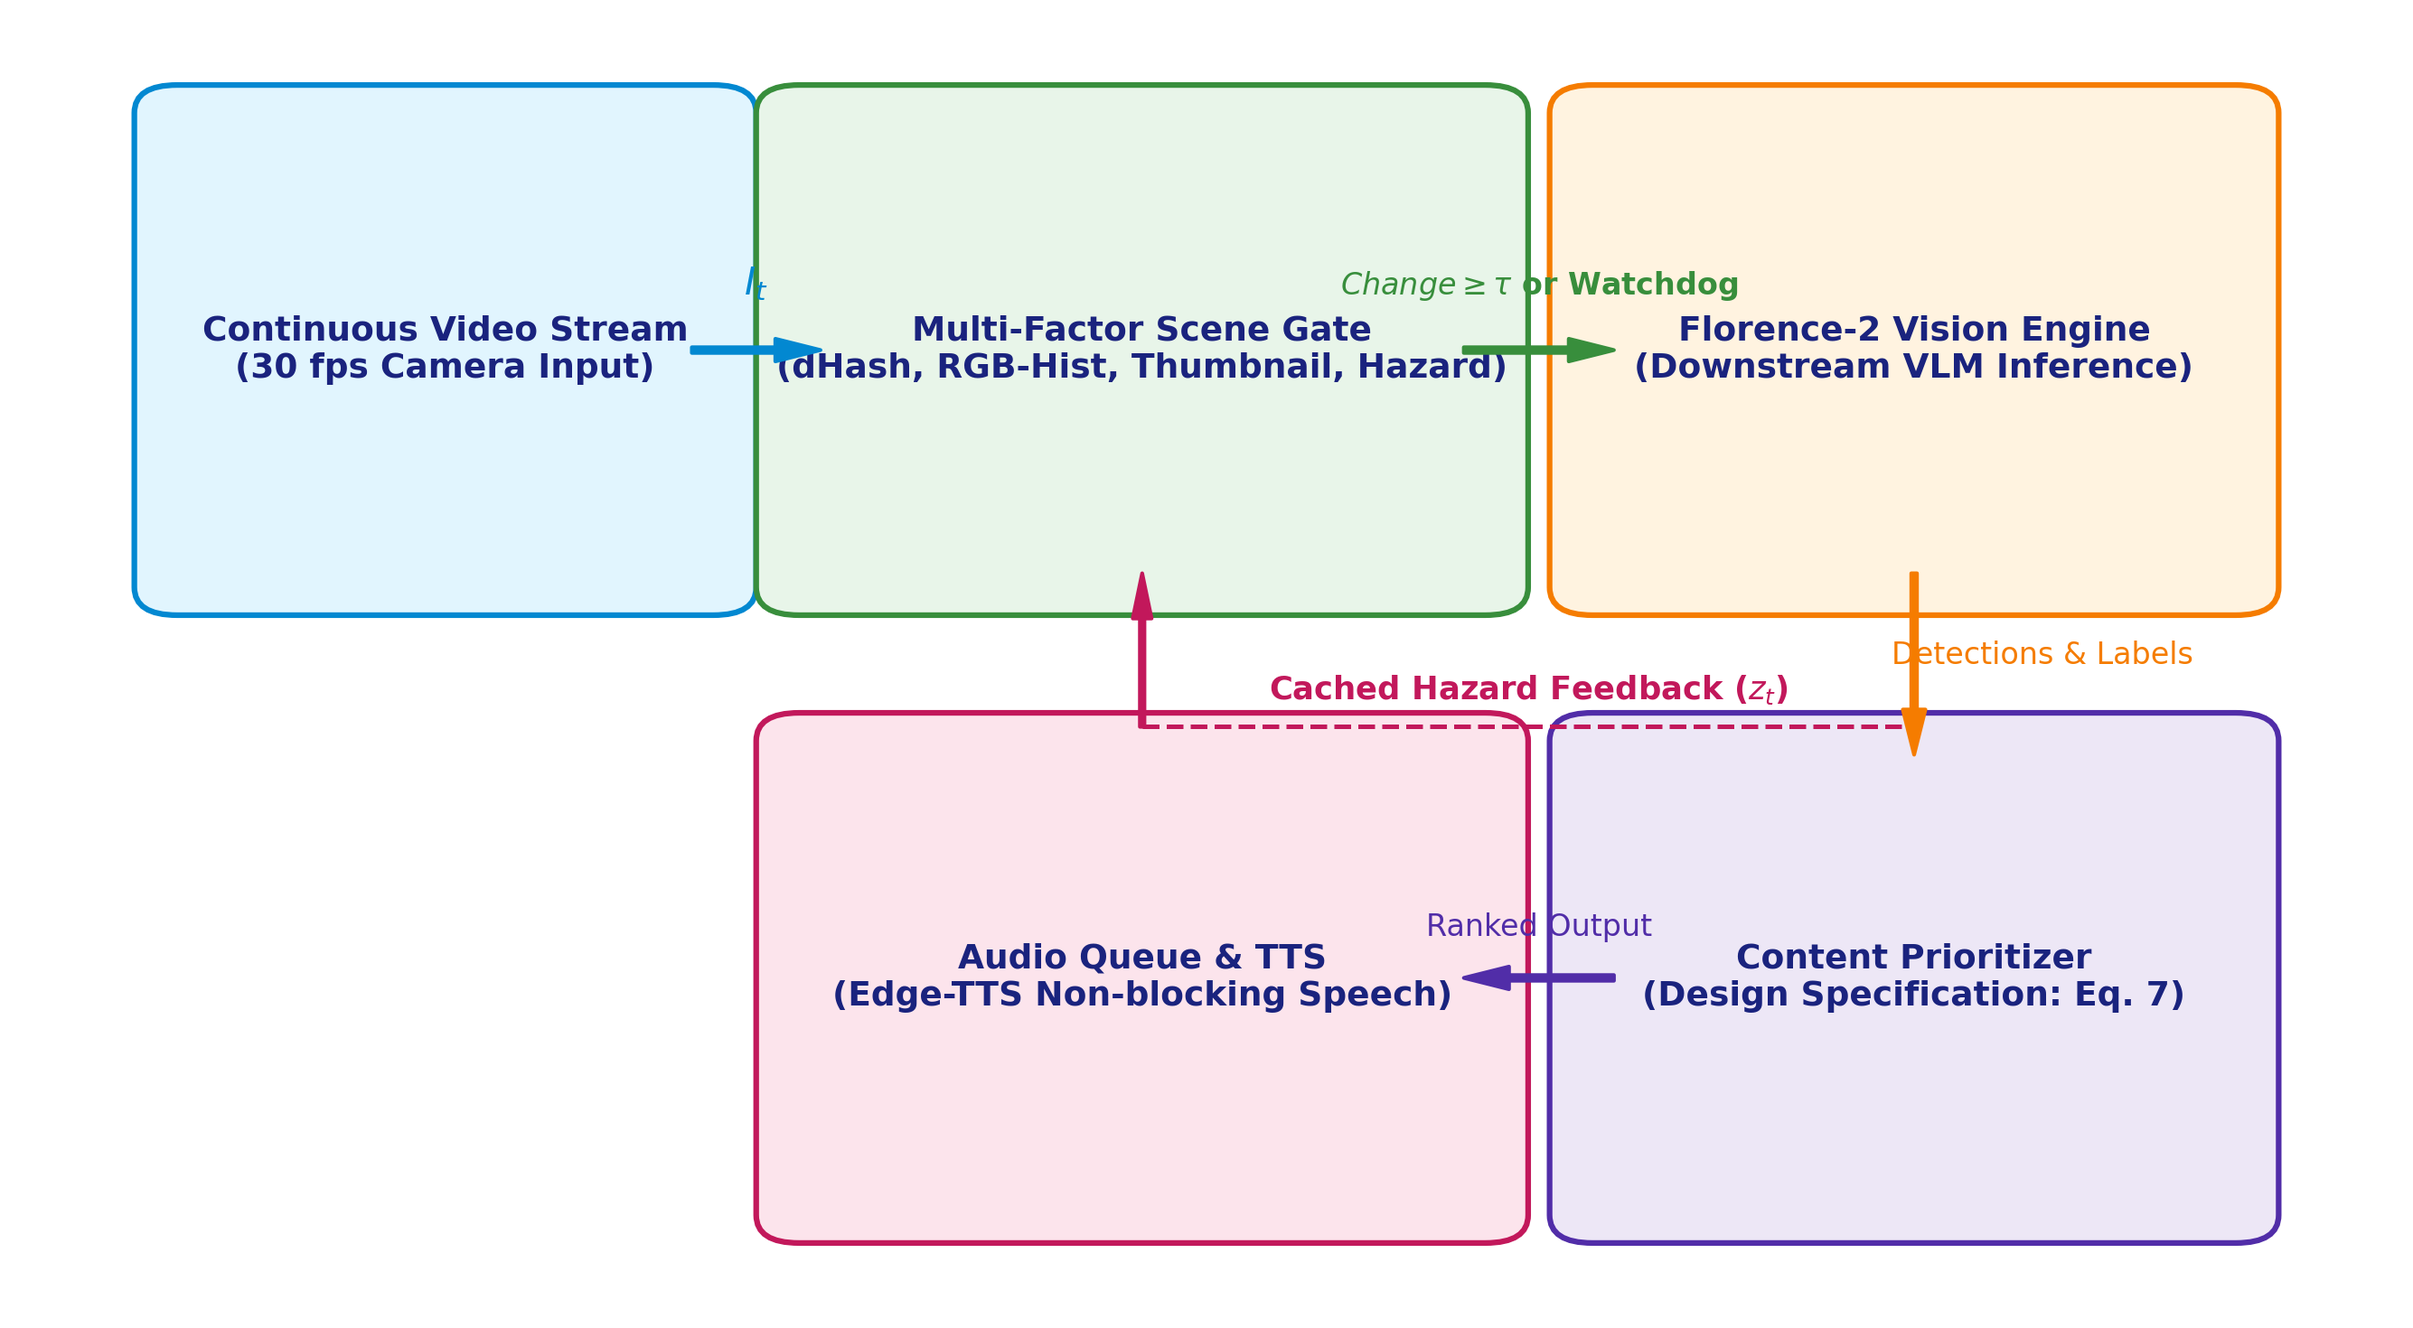
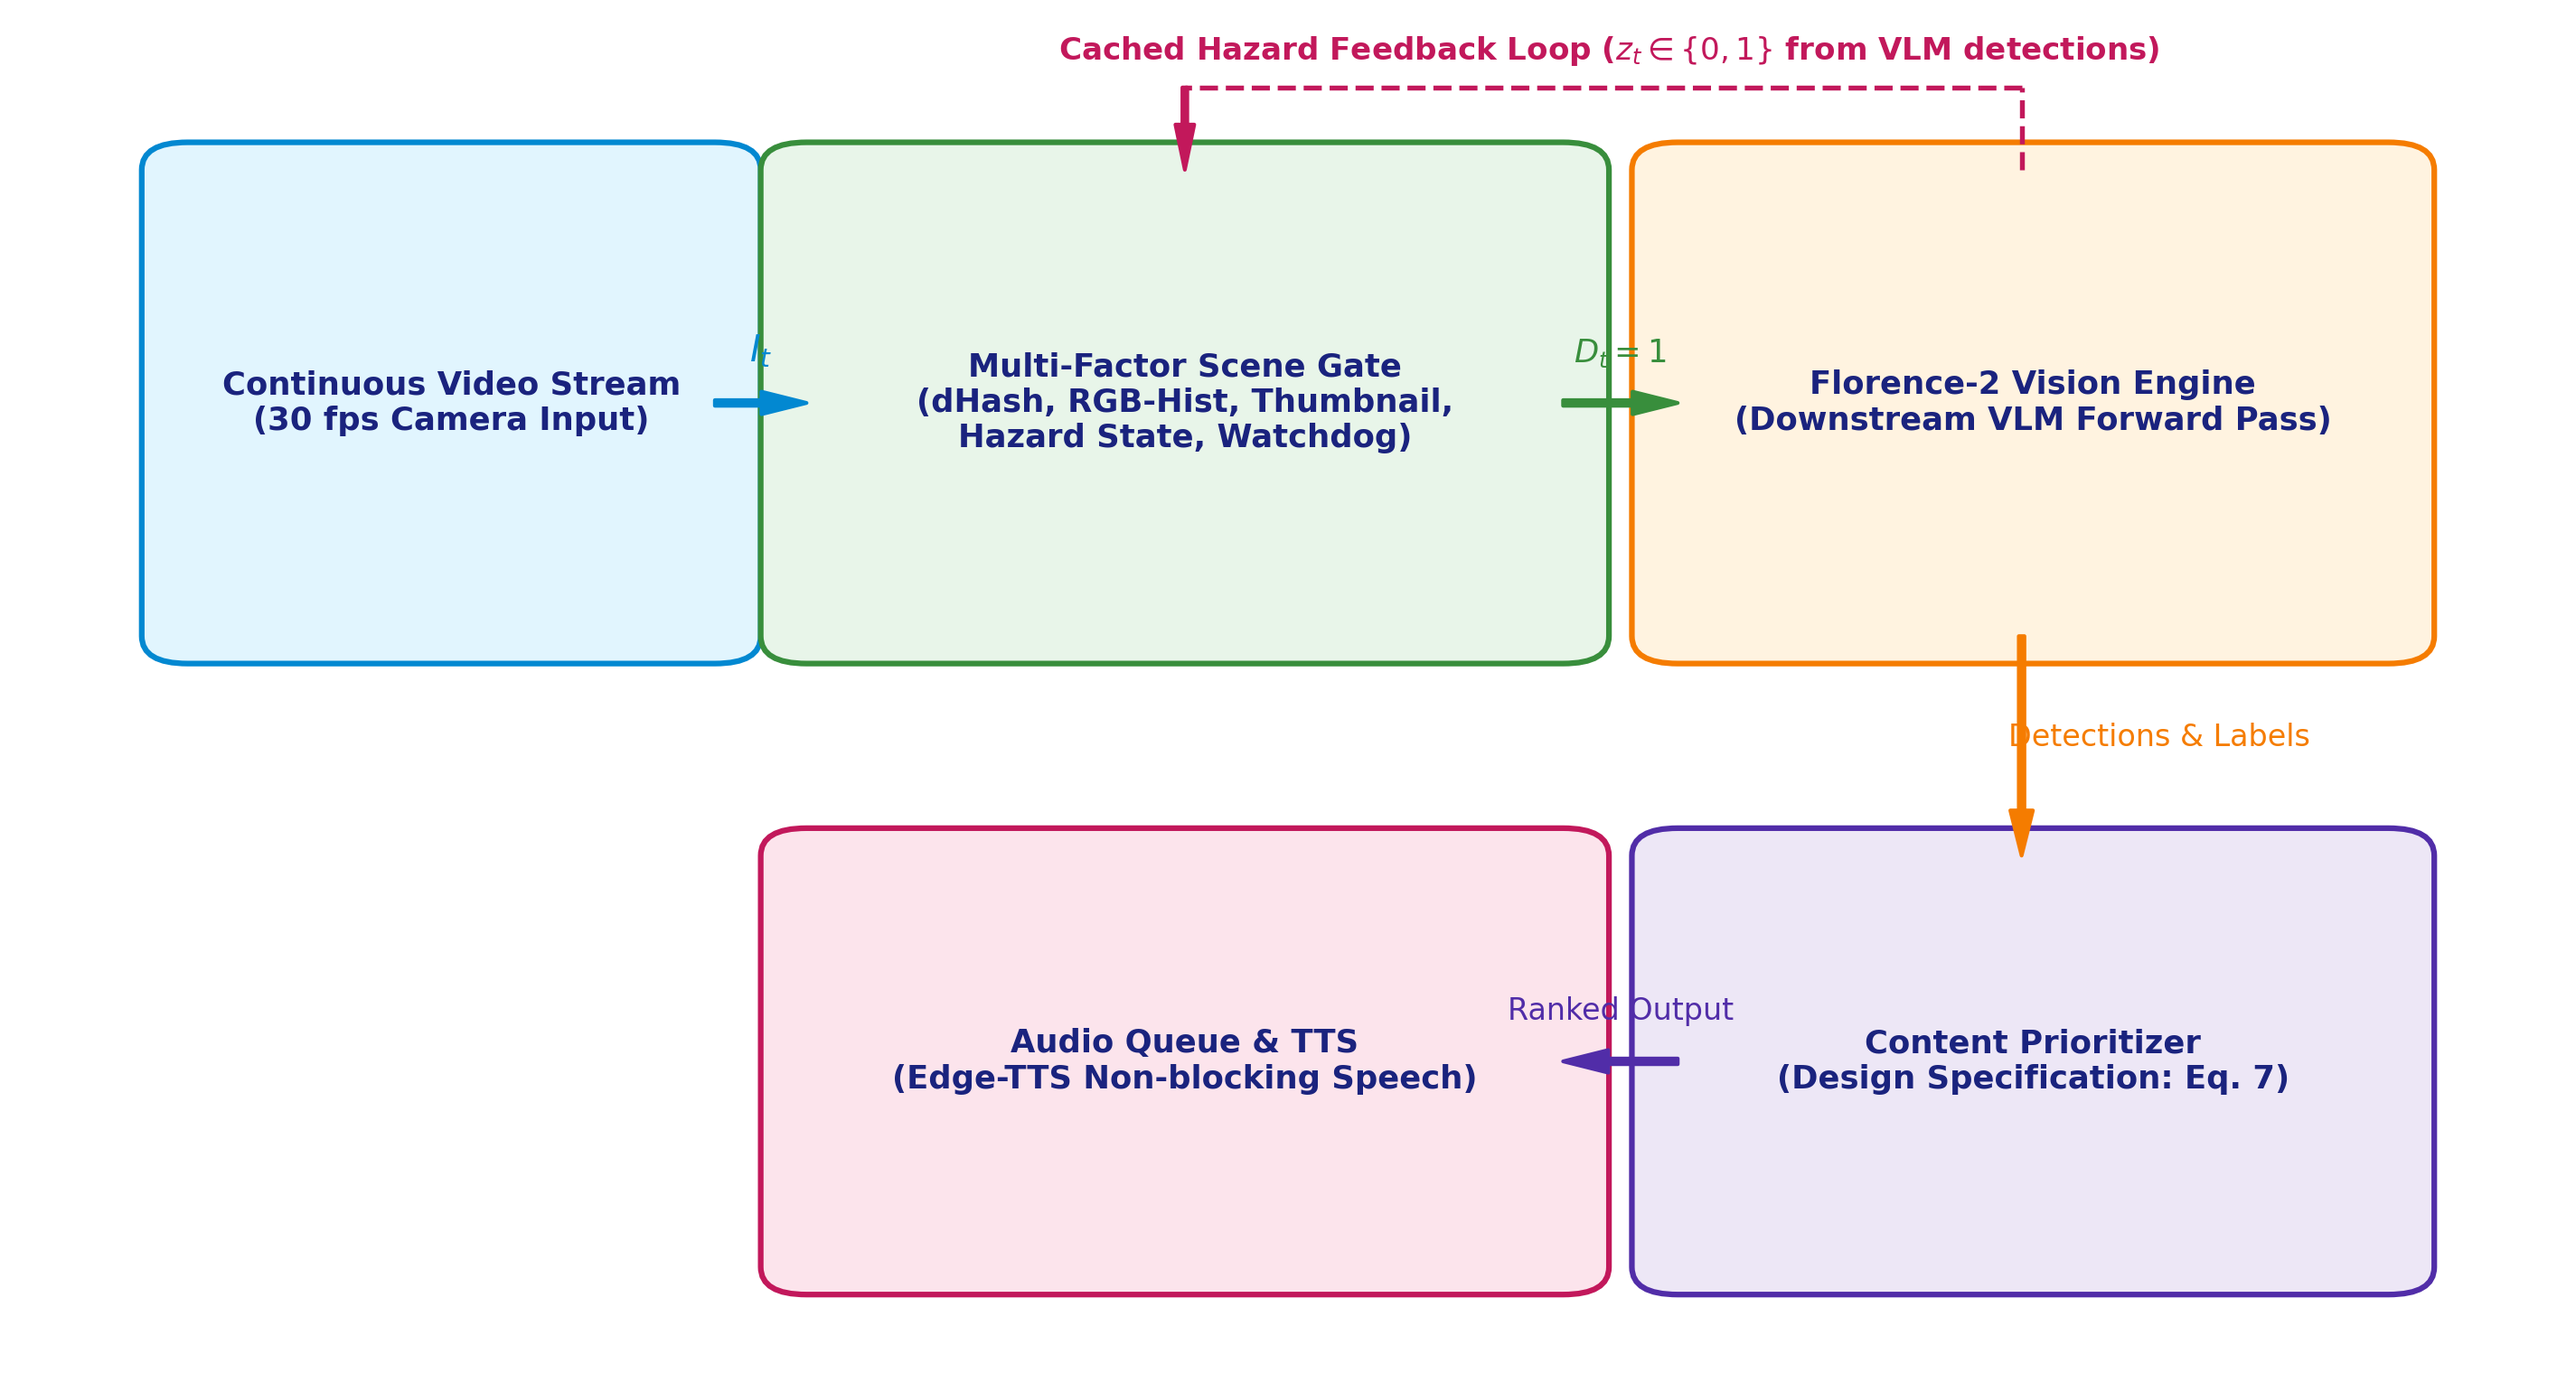
Reconcile PrioritySceneGate with watchdog, cooldown motion bypass, and verified benchmarks

Changed region(s): [[0.0311, 0.0306, 0.9637, 0.949]]

diff --git a/src/vision/priority_gate.py b/src/vision/priority_gate.py
@@ -6,8 +6,9 @@ class PrioritySceneGate:
     """
     Priority-Weighted Scene-Change Gating for Redundancy-Aware Assistive VLMs.
     
-    Causally couples perceptual, appearance, motion, and temporal hazard evidence
-    against the most recently processed reference frame.
+    Causally couples perceptual difference hashing, color histogram dissimilarity,
+    grayscale thumbnail motion proxy, and causally persisted hazard state with
+    configurable watchdog heartbeat (T_max) and hazard latch cooldown (T_cool).
     """
     def __init__(
         self,
@@ -16,34 +17,36 @@ class PrioritySceneGate:
         gamma: float = 0.30,
         delta: float = 0.25,
         threshold: float = 0.18,
-        heartbeat_interval: Optional[int] = None,
+        heartbeat_interval: Optional[int] = 15,
+        cooldown_interval: int = 6,
         hazard_vocabulary: Optional[set] = None
     ):
-        # Normalize weights to ensure sum = 1.0
-        total_w = alpha + beta + gamma + delta
-        self.alpha = alpha / total_w
-        self.beta = beta / total_w
-        self.gamma = gamma / total_w
-        self.delta = delta / total_w
+        tot = alpha + beta + gamma + delta
+        self.alpha = alpha / tot
+        self.beta = beta / tot
+        self.gamma = gamma / tot
+        self.delta = delta / tot
         self.threshold = threshold
         self.heartbeat_interval = heartbeat_interval
+        self.cooldown_interval = cooldown_interval
         
         self.hazard_vocabulary = hazard_vocabulary or {
-            'car', 'vehicle', 'truck', 'bus', 'stairs', 'curb', 'hole', 'obstacle', 'person', 'bicycle'
+            'car', 'vehicle', 'truck', 'bus', 'stairs', 'curb', 'hole', 'obstacle'
         }
         
-        # Temporal reference state (most recently invoked frame)
+        # Reference representations (most recently invoked frame)
         self.prev_hash: Optional[np.ndarray] = None
         self.prev_emb: Optional[np.ndarray] = None
         self.prev_gray: Optional[np.ndarray] = None
         
-        # Causally persisted hazard state
+        # Causally persisted hazard state and temporal counters
         self.cached_hazard: float = 0.0
         self.frames_since_invocation: int = 0
+        self.frames_since_hazard_alert: float = float('inf')
 
     def compute_dhash(self, img: Image.Image, size: int = 16) -> np.ndarray:
         """Compute difference hash (dHash) using Lanczos downsampling."""
-        gray = img.resize((size + 1, size), Image.LANCZOS).convert('L')
+        gray = img.resize((size + 1, size), Image.Resampling.LANCZOS).convert('L')
         pixels = np.array(gray, dtype=np.float32)
         diff = pixels[:, :-1] > pixels[:, 1:]
         return diff.flatten()
@@ -72,19 +75,21 @@ class PrioritySceneGate:
         """
         cur_hash = self.compute_dhash(img)
         cur_emb = self.compute_appearance_proxy(img)
-        cur_gray = np.array(img.resize((32, 32), Image.BILINEAR).convert('L'), dtype=np.float32)
+        cur_gray = np.array(img.resize((32, 32), Image.Resampling.BILINEAR).convert('L'), dtype=np.float32)
 
-        # Initial frame condition
+        # Startup unconditional pass at t = 0
         if self.prev_hash is None:
             self.prev_hash = cur_hash
             self.prev_emb = cur_emb
             self.prev_gray = cur_gray
             self.frames_since_invocation = 0
             if detection_labels is not None:
-                self.cached_hazard = 1.0 if any(l.lower() in self.hazard_vocabulary for l in detection_labels) else 0.0
+                has_haz = any(l.lower() in self.hazard_vocabulary for l in detection_labels)
+                self.cached_hazard = 1.0 if has_haz else 0.0
+                self.frames_since_hazard_alert = 0 if has_haz else float('inf')
             breakdown = {
                 's_vis': 1.0,
-                's_sem': 1.0,
+                's_app': 1.0,
                 's_mot': 1.0,
                 's_haz': self.cached_hazard,
                 'score': 1.0,
@@ -95,26 +100,33 @@ class PrioritySceneGate:
         # 1. Visual Hamming Distance
         s_vis = float(np.mean(cur_hash != self.prev_hash))
         
-        # 2. Appearance / Semantic Dissimilarity (Cosine)
+        # 2. Appearance Proxy Dissimilarity (Cosine)
         cos_sim = float(np.dot(cur_emb, self.prev_emb))
-        s_sem = float(np.clip(1.0 - cos_sim, 0.0, 1.0))
+        s_app = float(np.clip(1.0 - cos_sim, 0.0, 1.0))
         
-        # 3. Motion Magnitude Proxy (Mean absolute grayscale change)
+        # 3. Motion Magnitude Proxy (Normalized MAD on 32x32 thumbnail)
         s_mot = float(np.mean(np.abs(cur_gray - self.prev_gray)) / 255.0)
         
-        # 4. Causally Decoupled Hazard State from Previous Invocation
-        s_haz = float(self.cached_hazard)
+        # 4. Hazard state with latch cooldown
+        self.frames_since_hazard_alert += 1
+        if self.cooldown_interval > 0 and self.cached_hazard > 0:
+            s_haz = 0.0 if self.frames_since_hazard_alert < self.cooldown_interval else float(self.cached_hazard)
+        else:
+            s_haz = float(self.cached_hazard)
 
         # Multi-factor change score fusion
         change_score = float(
             self.alpha * s_vis +
-            self.beta * s_sem +
+            self.beta * s_app +
             self.gamma * s_mot +
             self.delta * s_haz
         )
         
         self.frames_since_invocation += 1
-        heartbeat_forced = bool(self.heartbeat_interval is not None and self.frames_since_invocation >= self.heartbeat_interval)
+        heartbeat_forced = bool(
+            self.heartbeat_interval is not None and
+            self.frames_since_invocation >= self.heartbeat_interval
+        )
         should_invoke = bool(change_score >= self.threshold or heartbeat_forced)
 
         # Update reference state and hazard cache ONLY upon invocation
@@ -124,11 +136,18 @@ class PrioritySceneGate:
             self.prev_gray = cur_gray
             self.frames_since_invocation = 0
             if detection_labels is not None:
-                self.cached_hazard = 1.0 if any(l.lower() in self.hazard_vocabulary for l in detection_labels) else 0.0
+                has_haz = any(l.lower() in self.hazard_vocabulary for l in detection_labels)
+                if has_haz:
+                    if self.cached_hazard == 0.0 or self.frames_since_hazard_alert >= self.cooldown_interval:
+                        self.frames_since_hazard_alert = 0
+                    self.cached_hazard = 1.0
+                else:
+                    self.cached_hazard = 0.0
+                    self.frames_since_hazard_alert = float('inf')
 
         breakdown = {
             's_vis': s_vis,
-            's_sem': s_sem,
+            's_app': s_app,
             's_mot': s_mot,
             's_haz': s_haz,
             'score': change_score,
@@ -143,3 +162,4 @@ class PrioritySceneGate:
         self.prev_gray = None
         self.cached_hazard = 0.0
         self.frames_since_invocation = 0
+        self.frames_since_hazard_alert = float('inf')

diff --git a/experiments/evaluate_gate.py b/experiments/evaluate_gate.py
@@ -94,7 +94,7 @@ def generate_scenarios(seed=42):
         img = np.full((120, 160, 3), 245, dtype=np.uint8)
         block_idx = (i // 4) % 5
         for b in range(5):
-            val = 20 if b == block_idx and (i % 4 != 0) else 90
+            val = 20 if b == block_idx else 90
             img[15 + b*20 : 25 + b*20, 20:140] = val
         frames_d.append(
             Image.fromarray(np.clip(img.astype(np.float32) + np.random.normal(0, 3.5, img.shape), 0, 255).astype(np.uint8))
